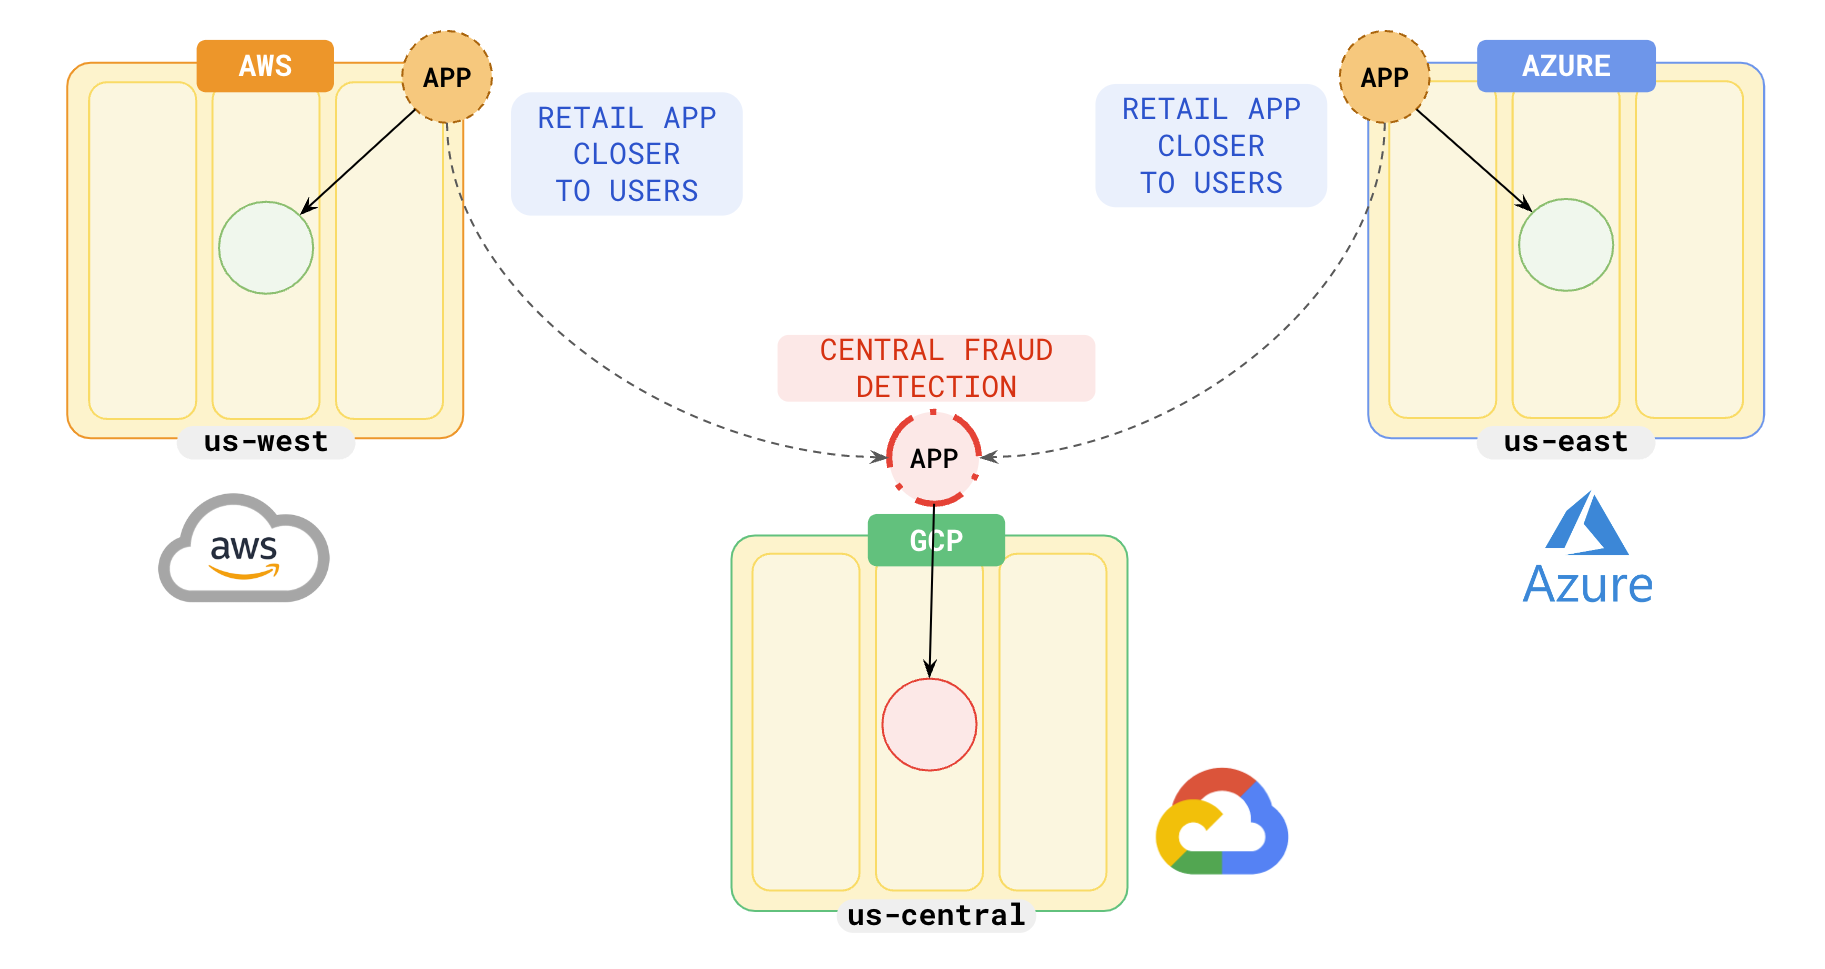
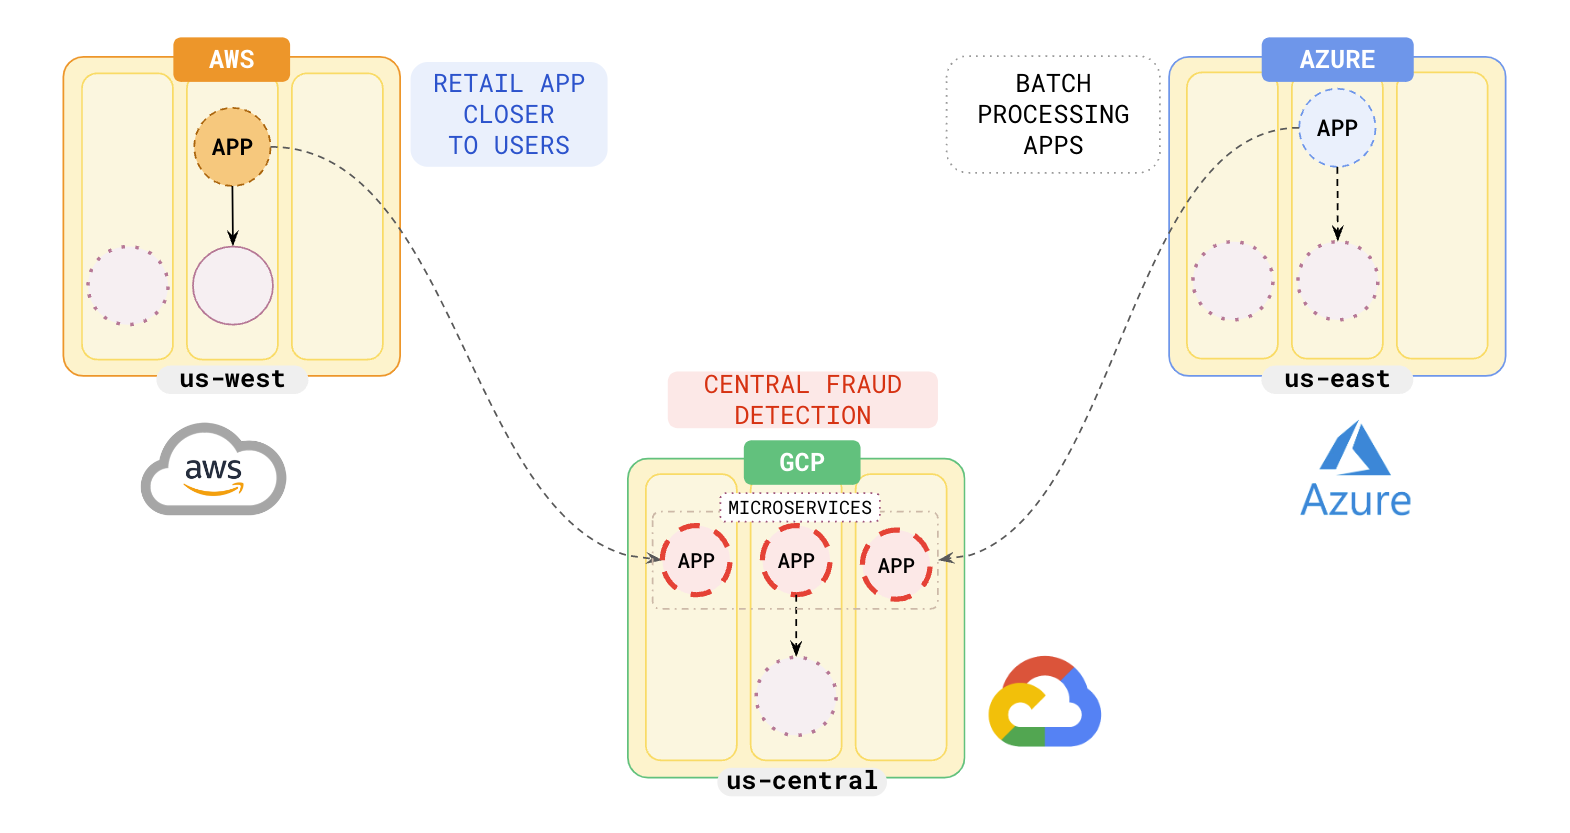
minor mods

diff --git a/docs/content/preview/develop/multi-cloud/multicloud-setup.md b/docs/content/preview/develop/multi-cloud/multicloud-setup.md
@@ -16,7 +16,11 @@ You can create a multi-cloud YugabyteDB universe spanning multiple geographic re
 
 ## Topology
 
-For illustration, you can set up a 6-node universe across AWS-`us-west`, Google Cloud Provider-`us-central`, and Microsoft Azure- `us-east`.
+For illustration, you can set up a 6-node universe across AWS-`us-west`, Google Cloud Provider-`us-central`, and Microsoft Azure- `us-east` with `RF=5`
+
+{{<note title="Note">}}
+To be ready for a any region failure, you should opt for `RF=7`.
+{{</note>}}
 
 ![Multi-cloud Yugabyte](/images/develop/multicloud/multicloud-topology.png)
 
@@ -39,7 +43,7 @@ For illustration, let us set up a 6-node universe with 2 nodes each in AWS, GCP,
 
 {{<setup/local
     numnodes="2"
-    rf="3"
+    rf="5"
     basedir="/tmp/ydb-aws-"
     status="no"
     dataplacement="no"
@@ -51,7 +55,7 @@ For illustration, let us set up a 6-node universe with 2 nodes each in AWS, GCP,
 
 {{<setup/local
     numnodes="2"
-    rf="3"
+    rf="5"
     destroy="no"
     ips="127.0.0.3,127.0.0.4"
     masterip="127.0.0.1"
@@ -66,7 +70,7 @@ For illustration, let us set up a 6-node universe with 2 nodes each in AWS, GCP,
 
 {{<setup/local
     numnodes="2"
-    rf="3"
+    rf="5"
     destroy="no"
     ips="127.0.0.5,127.0.0.6"
     masterip="127.0.0.1"
@@ -75,15 +79,10 @@ For illustration, let us set up a 6-node universe with 2 nodes each in AWS, GCP,
     status="yes"
     locations="azu.us-east-1.us-east-1a,azu.us-east-1.us-east-1a">}}
 
-<!--
-## Destroy the universe
 
-After exploring the multi-cloud setup locally, you can destroy the cluster using the following command
+Now, you should have a 6-node cluster with 2 nodes in each cloud provider like this:
 
-```bash
-for node in {aws,gcp,azu}-{1,2} ; do ./bin/yugabyted destroy --base_dir=/tmp/ydb-${node} ; done
-```
--->
+![Multi-cloud Yugabyte](/images/develop/multicloud/multicloud-6nodes.png)
 
 <!-- END: local cluster setup instructions -->
 {{</nav/panel>}}
@@ -119,11 +118,14 @@ Just as you chose `AWS`, `GCP` and `AZU`, you could choose to deploy your retail
 
 ## Failover
 
-On a region failure, the multi-cloud YugabyteDB universe will automatically failover to either of the remaining cloud regions depending on the [application design pattern](../../build-global-apps/) you had chosen for your setup. In the above example, if you had set the preferred zones order to be `azu:1 aws:2`, then when `AZU` fails, apps will move to `AWS` and the applications will use the data in `us-west` to serve your users without any data loss.
+On a region failure, the multi-cloud YugabyteDB universe will automatically failover to either of the remaining cloud regions depending on the [application design pattern](../../build-global-apps/) you had chosen for your setup. In the above example, if you had set the preferred zones order to be `aws:1 azu:2`, then when `AWS` fails, apps will move to `AZU` and the applications will use the data in `us-east` to serve your users without any data loss.
 
 ![Multi-cloud Yugabyte](/images/develop/multicloud/multicloud-failover.png)
+
+You could choose closer regions to avoid an increase in latency on failover.
 
 ## Learn more
 
 - [Build global applications](../../build-global-apps/)
 - [Global database failover](../../build-global-apps/global-database#failover)
+- [Improve latencies with closer regions ](../../build-global-apps/global-database#improve-latencies-with-closer-regions)

diff --git a/docs/content/preview/develop/multi-cloud/_index.md b/docs/content/preview/develop/multi-cloud/_index.md
@@ -69,24 +69,18 @@ YugabyteDB offers basic patterns to make this migration seamless. You can set up
     title="Multi-cloud setup"
     body="Setup a YugabyteDB universe across AWS/GCP/Azure."
     href="./multicloud-setup"
-    icon="fa-solid fa-equals">}}
+    icon="fa-brands fa-cloudflare">}}
 
 {{<index/item
     title="Cloud migration"
     body="Migrate your data from one cloud to another."
-    icon="fa-solid fa-equals"
+    icon="fa-solid fa-cloud-arrow-up"
     href="./multicloud-migration">}}
 
 {{<index/item
     title="Hybrid cloud"
     body="Add a public cloud to your on-prem environment."
-    icon="fa-brands fa-searchengin"
+    icon="fa-brands fa-soundcloud"
     href="./hybrid-cloud">}}
-
-<!-- {{<index/item
-    title="Bank of Anthos"
-    body="Full fledged example of a Banking application using YugabyteDB on a multi-cloud setup."
-    icon="fa-solid fa-music"
-    href="https://github.com/yugabyte/bank-of-anthos">}} -->
 
 {{</index/block>}}
